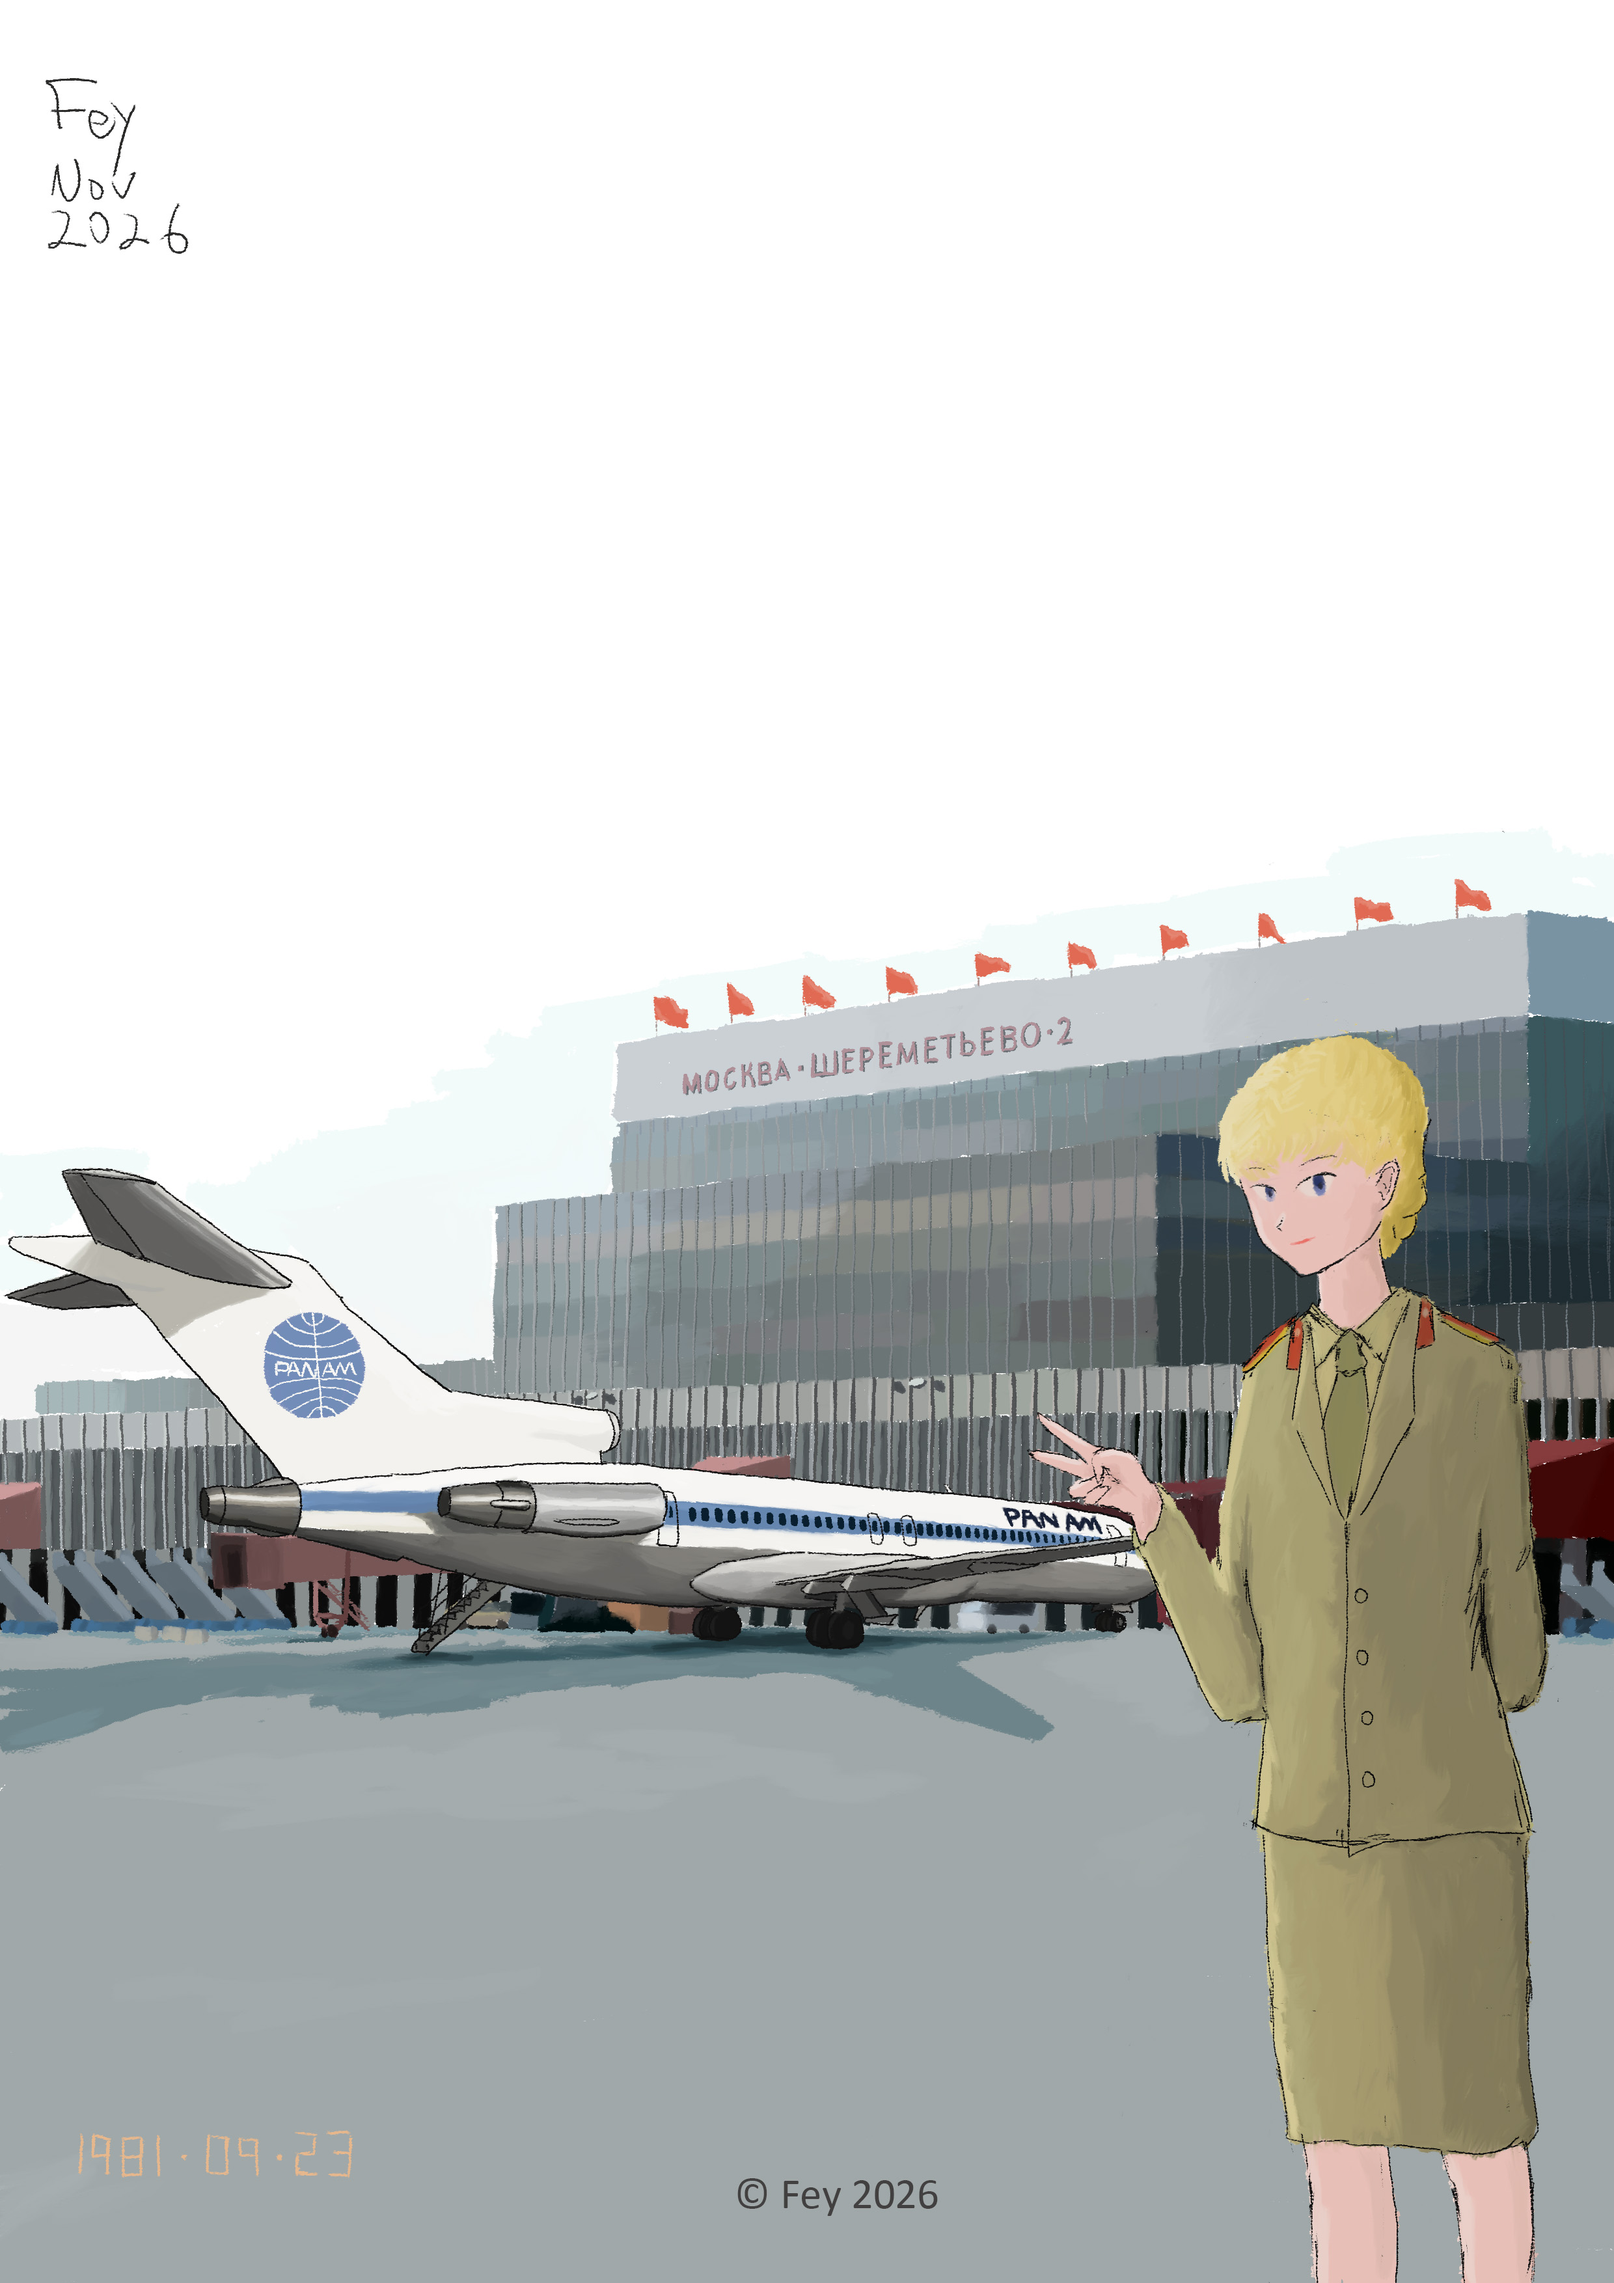
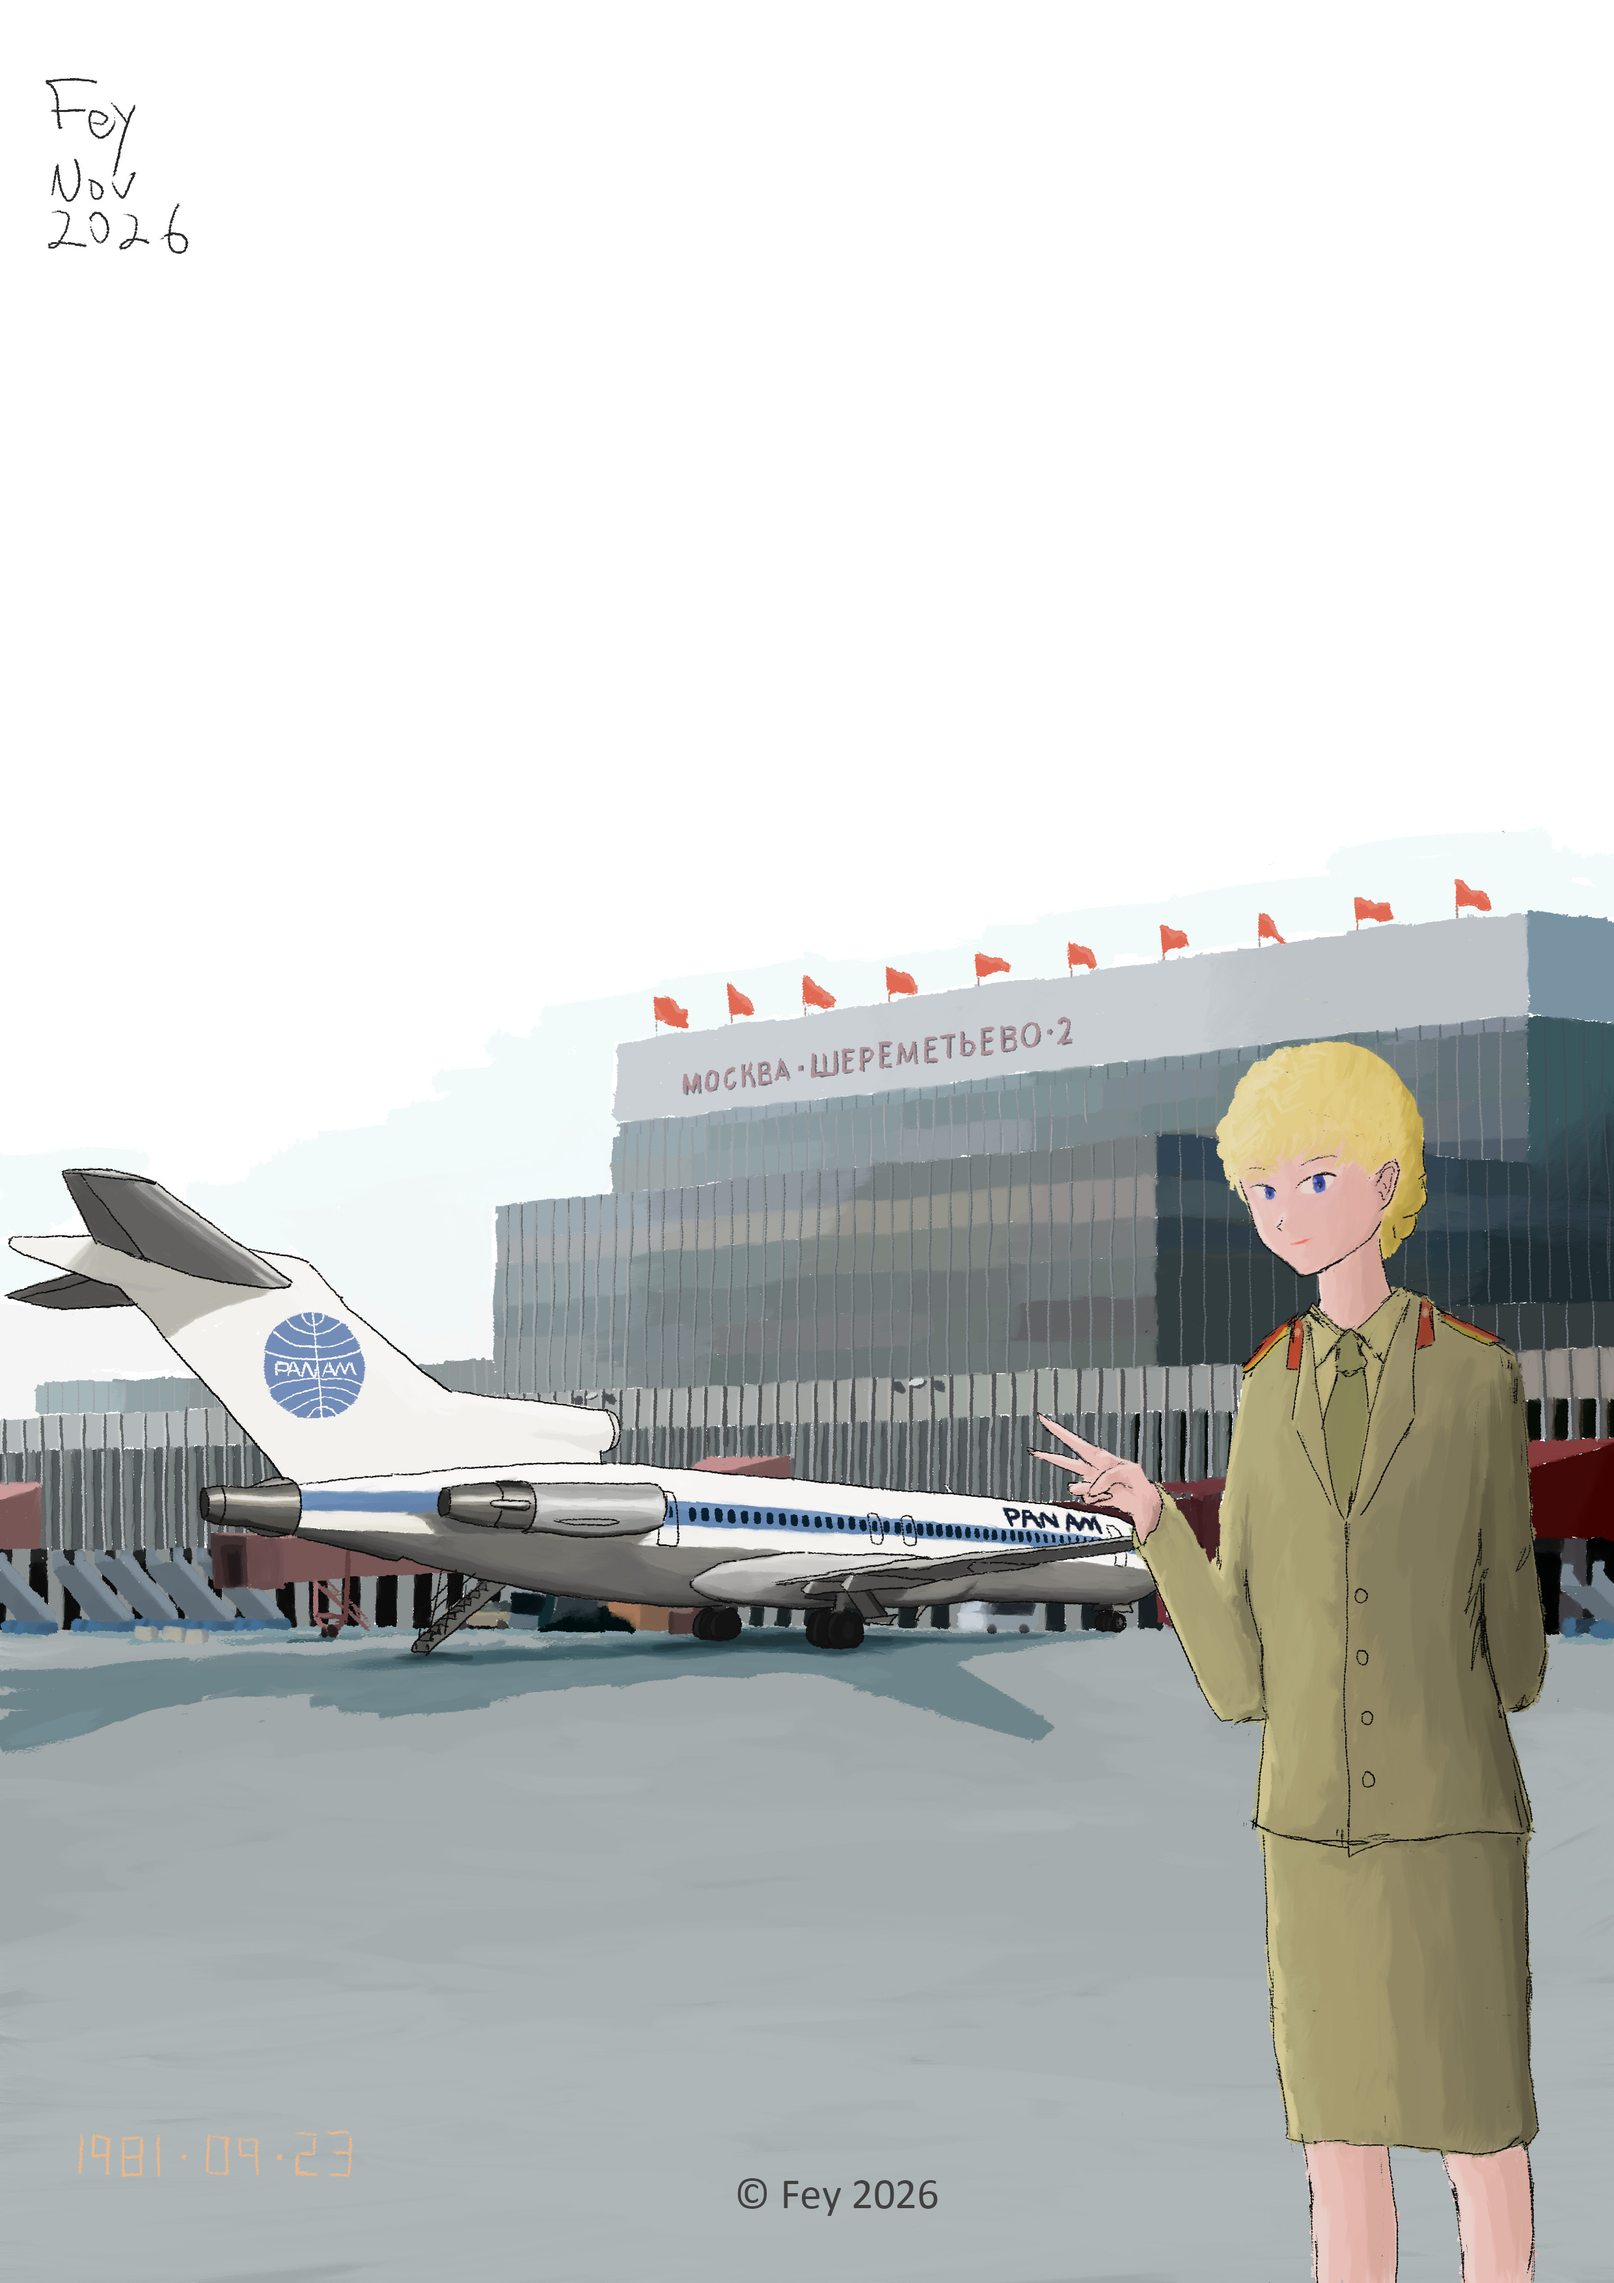
update some details

diff --git a/src/data/campfireDates.ts b/src/data/campfireDates.ts
@@ -10,8 +10,23 @@ export const campfireDates = [
     },
 
     {
+        date: "01-06",
+        name: "Lalinder's Birthday",
+    },
+
+    {
         date: "01-07",
         name: "Menghe's Birthday",
+    },
+
+    {
+        date: "02-18",
+        name: "Liqi's Birthday",
+    },
+
+    {
+        date: "10-12",
+        name: "Victor's Birthday",
     },
 
 ];

diff --git a/src/content/recent/first-post.md b/src/content/recent/first-post.md
@@ -42,6 +42,12 @@ as the world will never wait for you. The journey of Capsule Fey has only begun,
 am very happen to greet you from this tiny corner of the internet.
 </p>    
 
+<p> In case if you wonder, the two lines of Chinese on the front page literally translates as:
+"Blizzard and rains within a feet, family lights out of reach". It's not a poem but something 
+I came to realized these years. Somehow it perfectly summarizes my life experience, research 
+methodology, and research subjects.
+</p> 
+
 <p>
 <a class="shortcut" href="/recent" style="color: rgb(var(--gray));">
 Return to "Recent"</a>

diff --git a/src/content/art/cathedral.md b/src/content/art/cathedral.md
@@ -1,5 +1,5 @@
 ---
-title: Lichfield cathedral (B)
+title: Lichfield Cathedral (B)
 subtitle: NA
 description: British gothic
 pubDate: NA
